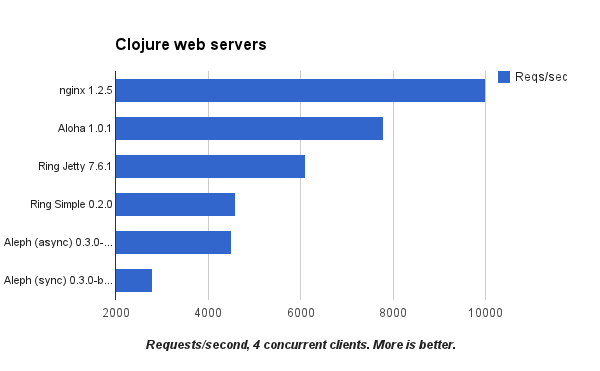
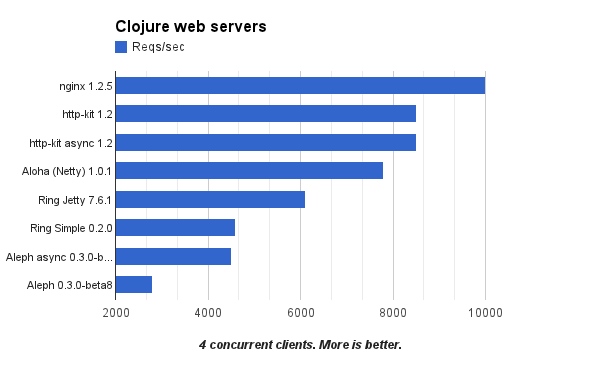
Add http-kit results, clean up README

Changed region(s): [[0.0, 0.1779, 0.93, 0.8005], [0.18, 0.0593, 0.45, 0.1482], [0.24, 0.9191, 0.75, 0.9488]]

diff --git a/README.md b/README.md
@@ -1,6 +1,6 @@
-# Some very quick+dirty Clojure web server benchmarks
+# Some quick & dirty Clojure web server benchmarks
 
-## Platform
+## Configuration
  * Macbook Air 1.7GHz i5 with 4GB memory.
  * OpenJDK 1.7, -server.
  * Clojure 1.5.0-alpha3.
@@ -12,10 +12,18 @@
 
 Responses are echos (static HTML in the case of nginx). [Detailed benchmark information](https://docs.google.com/spreadsheet/ccc?key=0AuSXb68FH4uhdE5kTTlocGZKSXppWG9sRzA5Y2pMVkE) is available on Google Docs.
 
-## Todo
+## Clojure Web Servers on GitHub
 
- * Jetty 8.
- * Container/non-embedded Jetty 7+8.
+ * [ring-clojure](https://github.com/ring-clojure/ring).
+ * [http-kit](https://github.com/shenfeng/http-kit).
+ * [aloha](https://github.com/ztellman/aloha).
+ * [ring-simpleweb-adapter](https://github.com/netmelody/ring-simpleweb-adapter).
+ * [aleph](https://github.com/ztellman/aleph).
+
+## TODO
+
+ * Jetty 8, 9 (embedded).
+ * Jetty 7, 8, 9 (container).
  * java.nio.
  * Webbit.
  * Other ideas?
